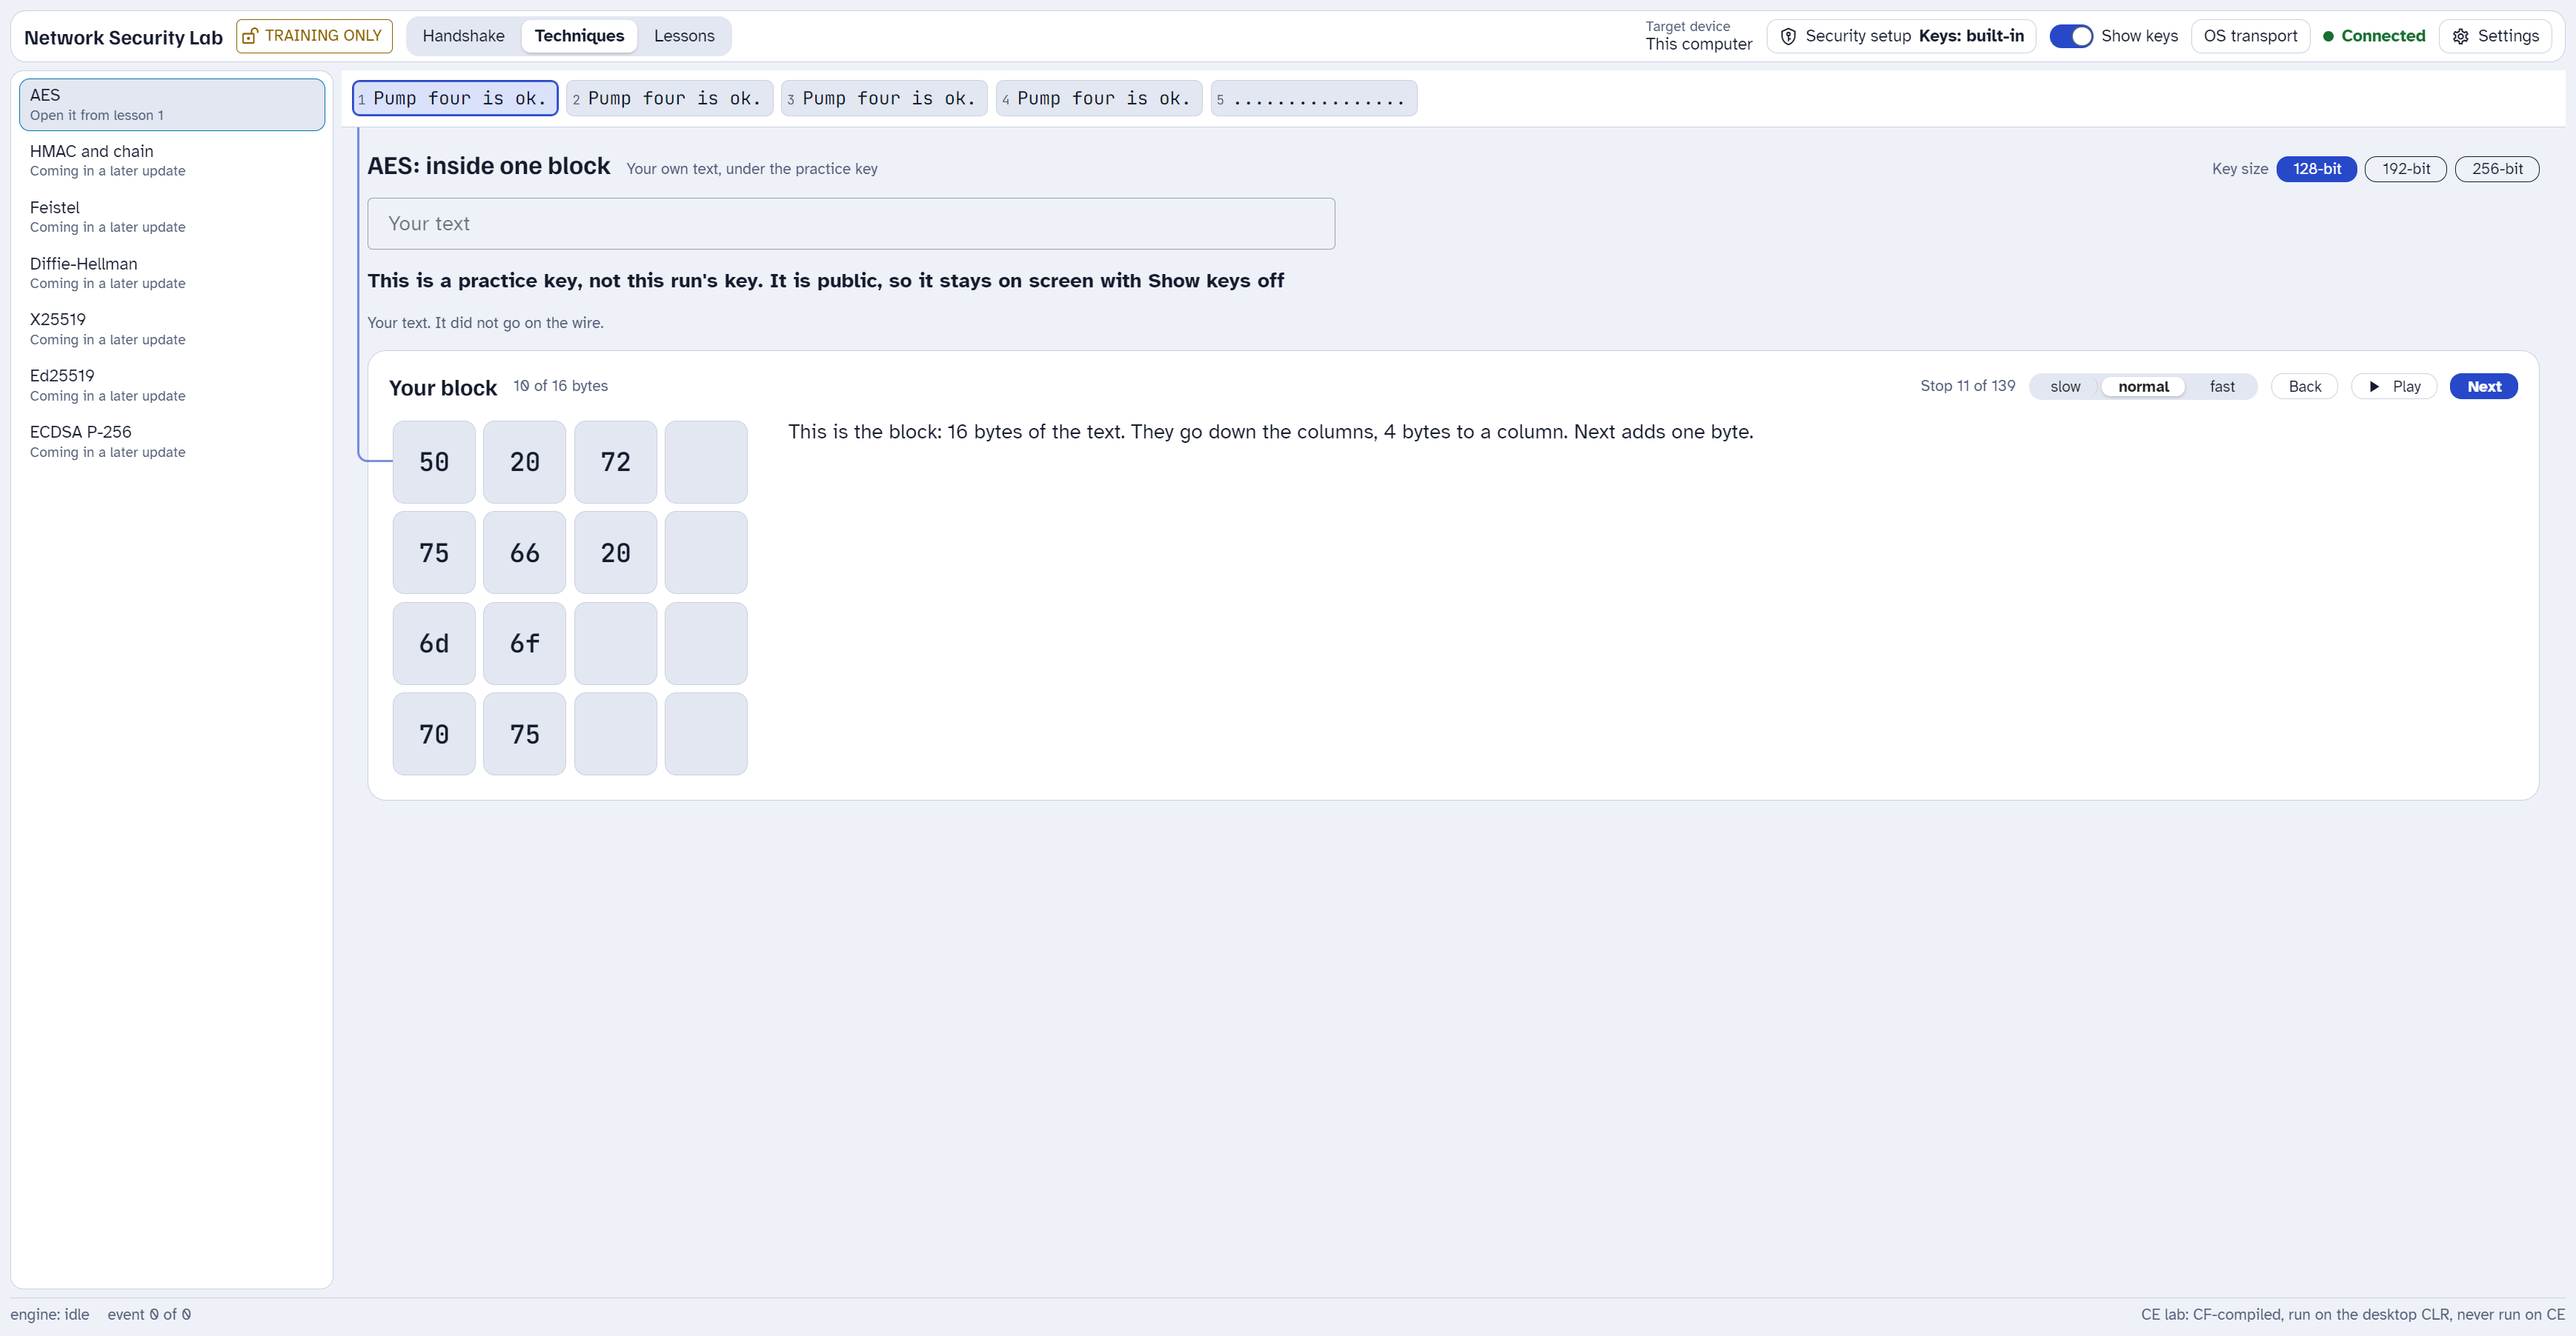
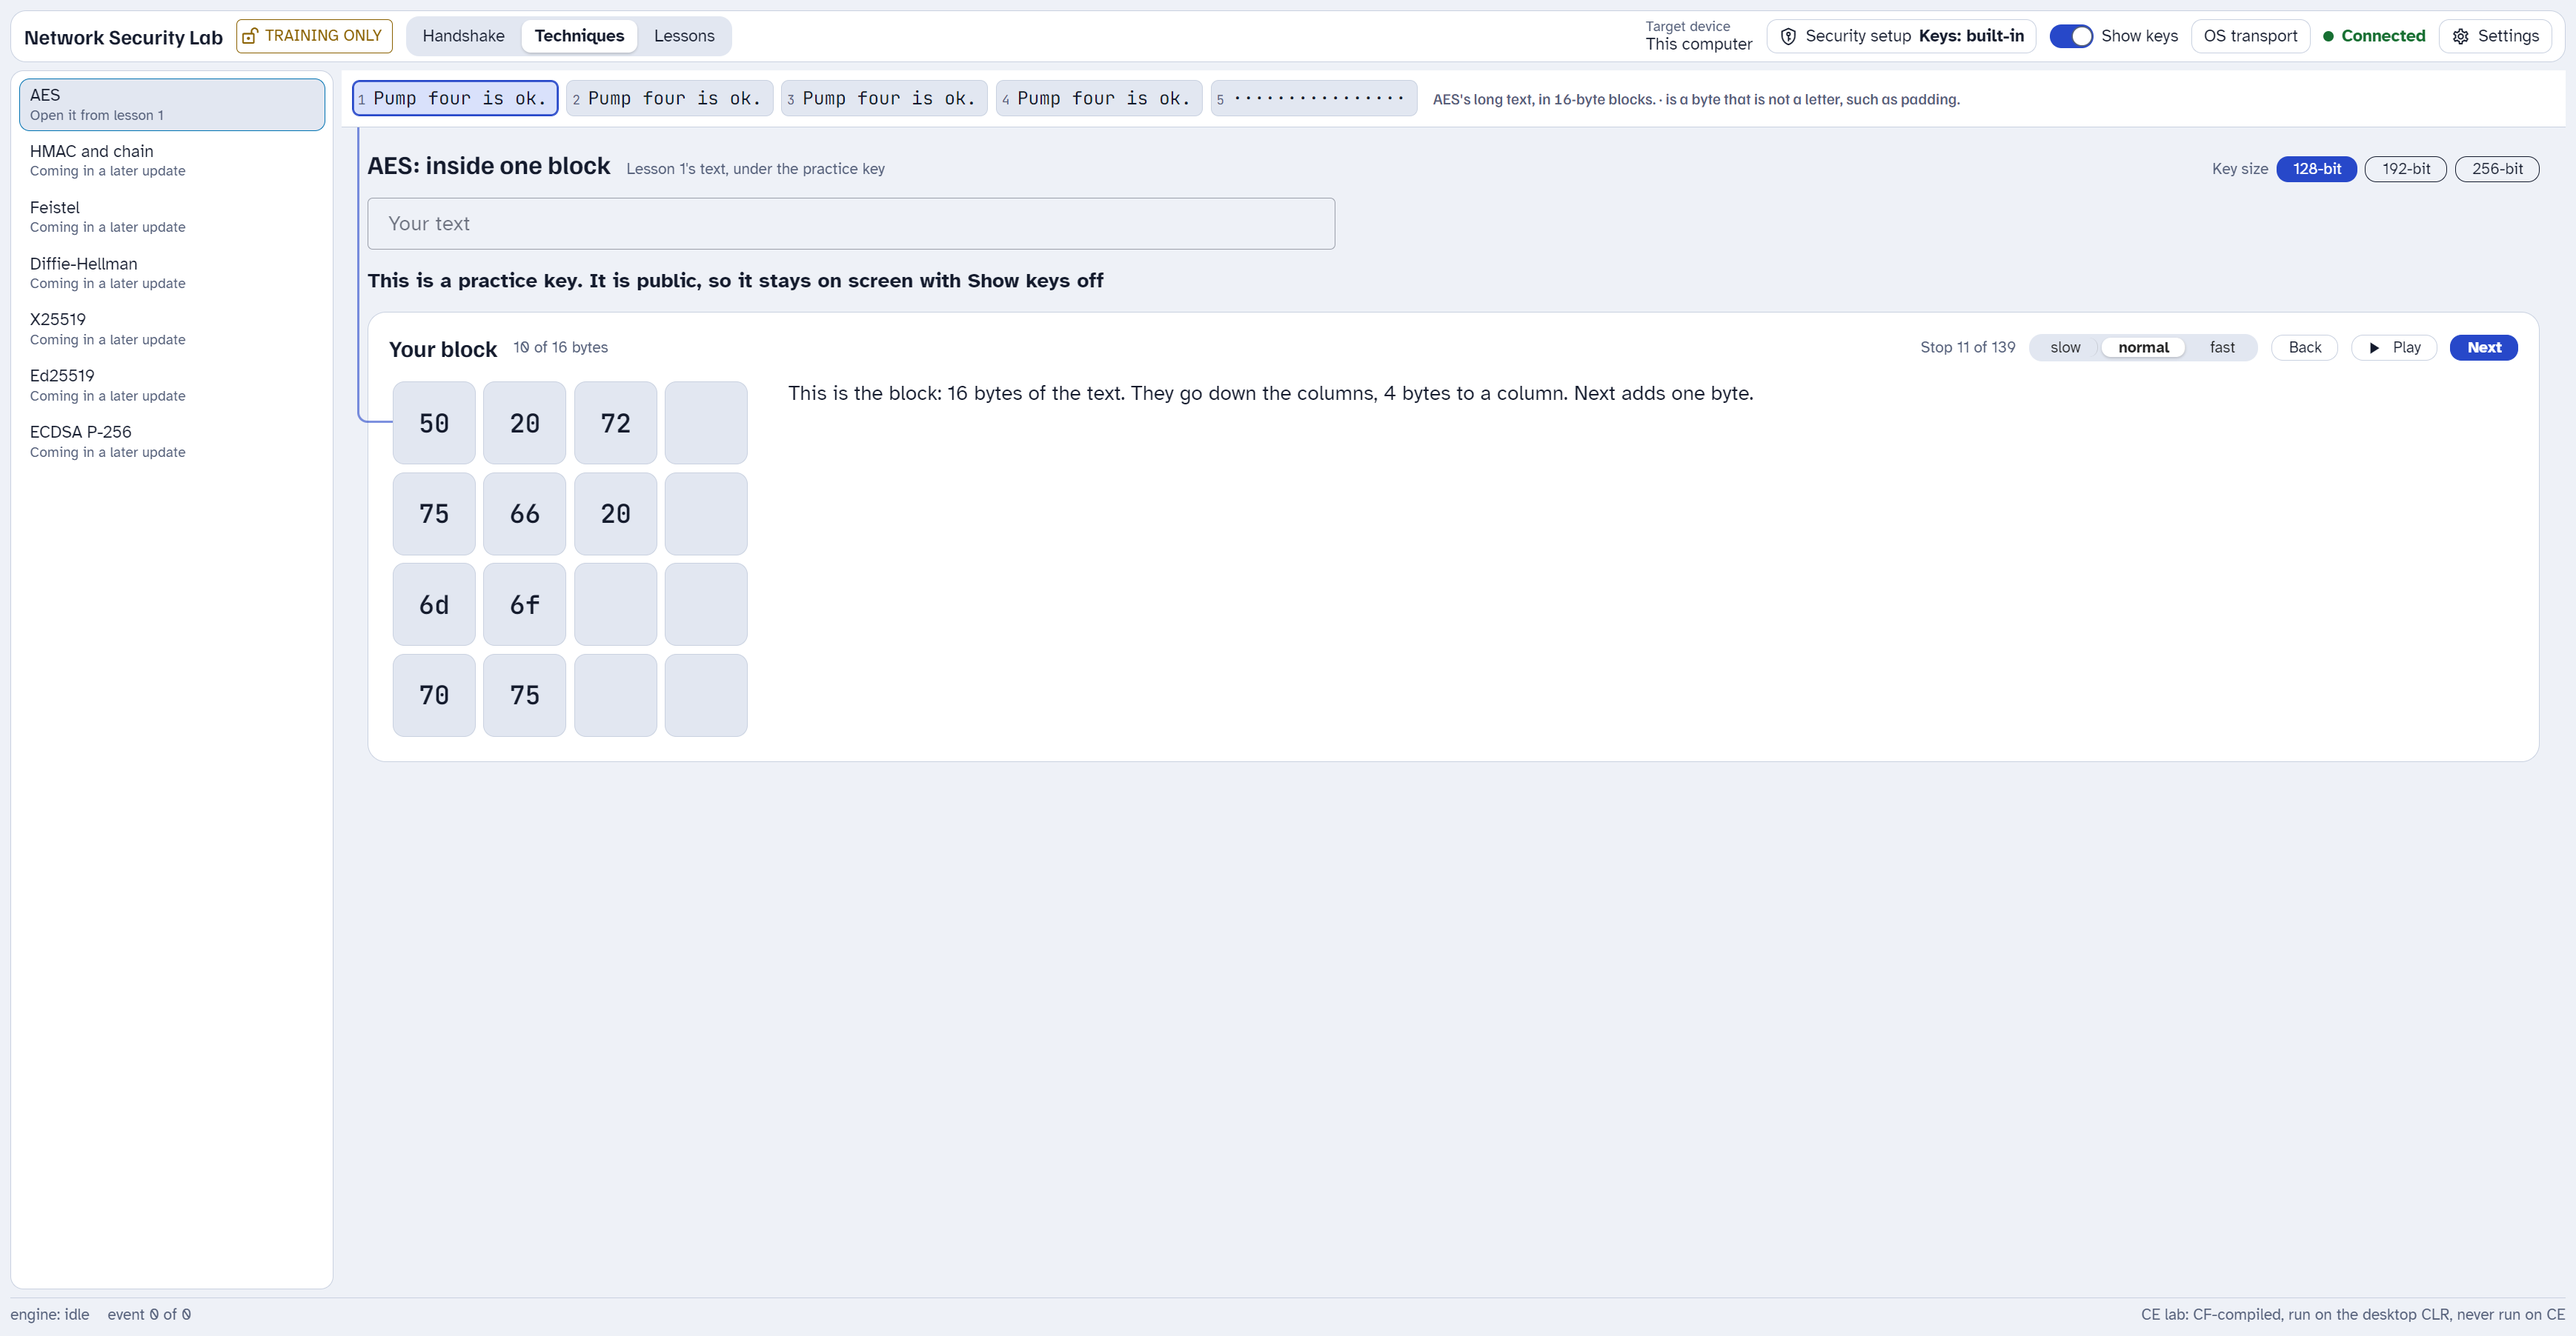
fix(app): an empty box says the block is lesson 1's text, and claims no "did not go on the wire" (Richard on #270)
- With the box empty, the subtitle reads "Lesson 1's text, under the practice
  key", and the wire line does not show, because a run does send that text.
  Typed text keeps "Your own text" and "It did not go on the wire". The typed
  spec checks both cases.
- "Not included" keeps the squiggle of design 2.2g, in a muted colour, not the
  error red.
- The strip marks a byte that is not a letter with "·", and a legend at its
  right end says so and names it as AES's long text. Its scrollbar is hidden,
  so it cannot squeeze the 44 px line; it still scrolls, and it takes focus
  for the arrow keys.

Claude-Session: https://claude.ai/code/session_013RTdUaidNWNSSsRoFumAcR

diff --git a/app/src/style.css b/app/src/style.css
@@ -432,13 +432,19 @@ body { overflow: hidden; }
 .aw-strip-block.aw-strip-current { border-color: var(--accent); box-shadow: 0 0 0 1px var(--accent) inset; background: var(--accent-soft); }
 .aw-strip-n { font-size: 10px; color: var(--muted); margin-right: 6px; }
 .aw-strip-error { color: var(--fail); font-size: 12px; }
+/* The strip still scrolls sideways (wheel, trackpad, or arrow keys once focused); its bar is hidden so it cannot squeeze the 44 px line. */
+.aw-strip { scrollbar-width: none; }
+.aw-strip::-webkit-scrollbar { display: none; }
+.aw-strip:focus-visible { outline: 2px solid var(--focus); outline-offset: -2px; }
+.aw-strip-legend { flex: 0 0 auto; margin-left: 6px; font-family: var(--display, inherit); font-size: 12px; color: var(--muted); }
 /* The link line from the current strip block to the state grid. It is a layout mark, so it never takes a click. */
 .aw-link { position: fixed; box-sizing: border-box; border-left: 2px solid var(--accent); border-bottom: 2px solid var(--accent); border-bottom-left-radius: 8px; opacity: 0.6; pointer-events: none; z-index: 2; }
 /* Design 2.2g: the typed text box, with what the block does not use marked by a squiggle and a background colour. */
 .aw-typed { display: grid; gap: 4px; max-width: 72ch; }
 .aw-typed-marks { margin: 0; font-family: var(--mono); white-space: pre-wrap; word-break: break-all; }
 .aw-typed-split { text-decoration: underline wavy var(--warn); background: color-mix(in srgb, var(--warn) 18%, transparent); }
-.aw-typed-out { text-decoration: underline wavy var(--fail); background: color-mix(in srgb, var(--fail) 14%, transparent); color: var(--muted); }
+/* Left out, not wrong: the squiggle Steve asked for (design 2.2g) in a muted colour, never the error red (Richard on #270). */
+.aw-typed-out { text-decoration: underline wavy var(--muted); background: color-mix(in srgb, var(--muted) 16%, transparent); color: var(--muted); }
 .aw-typed-tag { font-family: var(--display, inherit); font-size: 12px; color: var(--muted); margin-left: 8px; }
 .aw-offer { justify-self: start; }
 .aw-key-source-practice { color: var(--warn); }

diff --git a/app/e2e/aes-walk-typed.spec.ts b/app/e2e/aes-walk-typed.spec.ts
@@ -37,7 +37,9 @@ test('with no run, Techniques AES shows the practice walk on the default text', 
   await page.getByTestId('walk-item-aes').click()
   // With no run there is no run's key to compare with, so the line leaves those words out.
   await expect(page.getByTestId('aes-walk-key-source')).toHaveText('This is a practice key. It is public, so it stays on screen with Show keys off')
-  await expect(page.getByTestId('aes-walk-wire-label')).toHaveText('Your text. It did not go on the wire.')
+  // With the box empty, the block is lesson 1's own text, which a run does send, so the screen says so and claims no "did not go on the wire".
+  await expect(page.getByTestId('aes-walk-subtitle')).toHaveText("Lesson 1's text, under the practice key")
+  await expect(page.getByTestId('aes-walk-wire-label')).toHaveCount(0)
   await fillBlock(page)
   const letters: string[] = []
   for (let r = 0; r < 4; r++) letters.push((await cell(page, r, 0).getAttribute('data-letter')) ?? '')
@@ -55,6 +57,10 @@ test('typed text longer than 16 bytes walks its first 16 bytes and marks the res
   expect(reply.ok()).toBe(true)
   // "Valve two is ope" is 16 bytes, so "n now." is the part the block does not use.
   await expect(page.getByTestId('aes-walk-text-not-included')).toHaveText('n now.')
+  // Typed text is the learner's own, and it never went on the wire.
+  await expect(page.getByTestId('aes-walk-subtitle')).toHaveText('Your own text, under the practice key')
+  await expect(page.getByTestId('aes-walk-wire-label')).toHaveText('Your text. It did not go on the wire.')
+  await expect(page.getByTestId('aes-long-legend'), 'the strip says what · means').toContainText('· is a byte that is not a letter')
   await fillBlock(page)
   const top: string[] = []
   for (let c = 0; c < 4; c++) for (let r = 0; r < 4; r++) top.push((await cell(page, r, c).getAttribute('data-letter')) ?? '')

diff --git a/app/src/components/AesLongStrip.vue b/app/src/components/AesLongStrip.vue
@@ -29,17 +29,19 @@ async function load() {
 // The box's text is already debounced in the walk state, so the strip asks once per settled text.
 watch([text, () => aesWalk.keyBits, hostState], ([, , s]) => { if (s === 'connected') void load() }, { immediate: true })
 
-/** The 16 characters a block holds, with a dot for a byte that is not a printable character, such as padding. */
-const blockText = (row: AesLongRow) => textOf(row.data)
+/** The 16 characters a block holds. A byte that is not a letter, such as padding, shows as '·', so it cannot pass for a '.' in the text (Richard on #270). */
+const blockText = (row: AesLongRow) => textOf(row.data, '·')
 </script>
 
 <template>
-  <div class="aw-strip" data-testid="aes-long-strip" role="list" :aria-label="gloss.strip.label">
+  <div class="aw-strip" data-testid="aes-long-strip" role="list" :aria-label="gloss.strip.label" tabindex="0">
     <span v-if="error" class="aw-strip-error">{{ error }}</span>
     <span
       v-for="(row, n) in rows" :key="n" role="listitem" class="aw-strip-block" :class="{ 'aw-strip-current': n === CURRENT_BLOCK }"
       :data-testid="`aes-long-block-${n}`" :data-current="n === CURRENT_BLOCK ? 'true' : undefined"
       :title="n === CURRENT_BLOCK ? gloss.strip.current.replace('{n}', String(n + 1)) : `Block ${n + 1}`"
     ><span class="aw-strip-n">{{ n + 1 }}</span>{{ blockText(row) }}</span>
+    <!-- After the blocks, so block 1 stays at the left edge where the link line starts. It also names the strip on items that are not AES. -->
+    <span class="aw-strip-legend" data-testid="aes-long-legend">{{ gloss.strip.legend }}</span>
   </div>
 </template>

diff --git a/app/src/components/AesWalkPanel.vue b/app/src/components/AesWalkPanel.vue
@@ -39,7 +39,8 @@ const marks = computed(() => (aesWalk.cut && aesWalk.typed ? splitAtBytes(aesWal
 const wireLine = computed(() => {
   const b = aesWalk.block
   if (!b?.wire) return ''
-  if (b.source === 'typed') return gloss.wireTyped
+  // With the box empty, the practice block is lesson 1's own text, which the run did send, so "did not go on the wire" would be false (Richard on #270).
+  if (b.source === 'typed') return aesWalk.typed ? gloss.wireTyped : ''
   return (gloss.wire as Record<string, string>)[b.wire.status] ?? ''
 })
 const keyLine = computed(() => {
@@ -58,7 +59,7 @@ const showsWalk = computed(() => !closed.value && !!aesWalk.block)
     <header class="aw-title">
       <h2>AES: inside one block</h2>
       <span v-if="aesWalk.lesson != null && !practice" class="muted">The block from lesson {{ aesWalk.lesson }}'s run</span>
-      <span v-else class="muted">Your own text, under the practice key</span>
+      <span v-else class="muted" data-testid="aes-walk-subtitle">{{ aesWalk.typed ? gloss.typed.subtitleTyped : gloss.typed.subtitleLesson }}</span>
       <v-spacer />
       <div v-if="!closed && (aesWalk.sessionId || practice)" class="aw-sizes" role="radiogroup" aria-label="Key size">
         <span class="muted">Key size</span>

diff --git a/app/src/walk.ts b/app/src/walk.ts
@@ -85,10 +85,10 @@ export function letterOf(byte: string): string {
   return n >= 0x20 && n < 0x7f ? String.fromCharCode(n) : ''
 }
 
-/** The text a block holds, with a dot for each byte that is not printable. */
-export function textOf(hex: string): string {
+/** The text a block holds, with a mark for each byte that is not printable: '.' by default, '·' where a '.' could pass for text. */
+export function textOf(hex: string, mark = '.'): string {
   let out = ''
-  for (let i = 0; i < hex.length / 2; i++) out += letterOf(byteAt(hex, i)) || '.'
+  for (let i = 0; i < hex.length / 2; i++) out += letterOf(byteAt(hex, i)) || mark
   return out
 }
 
